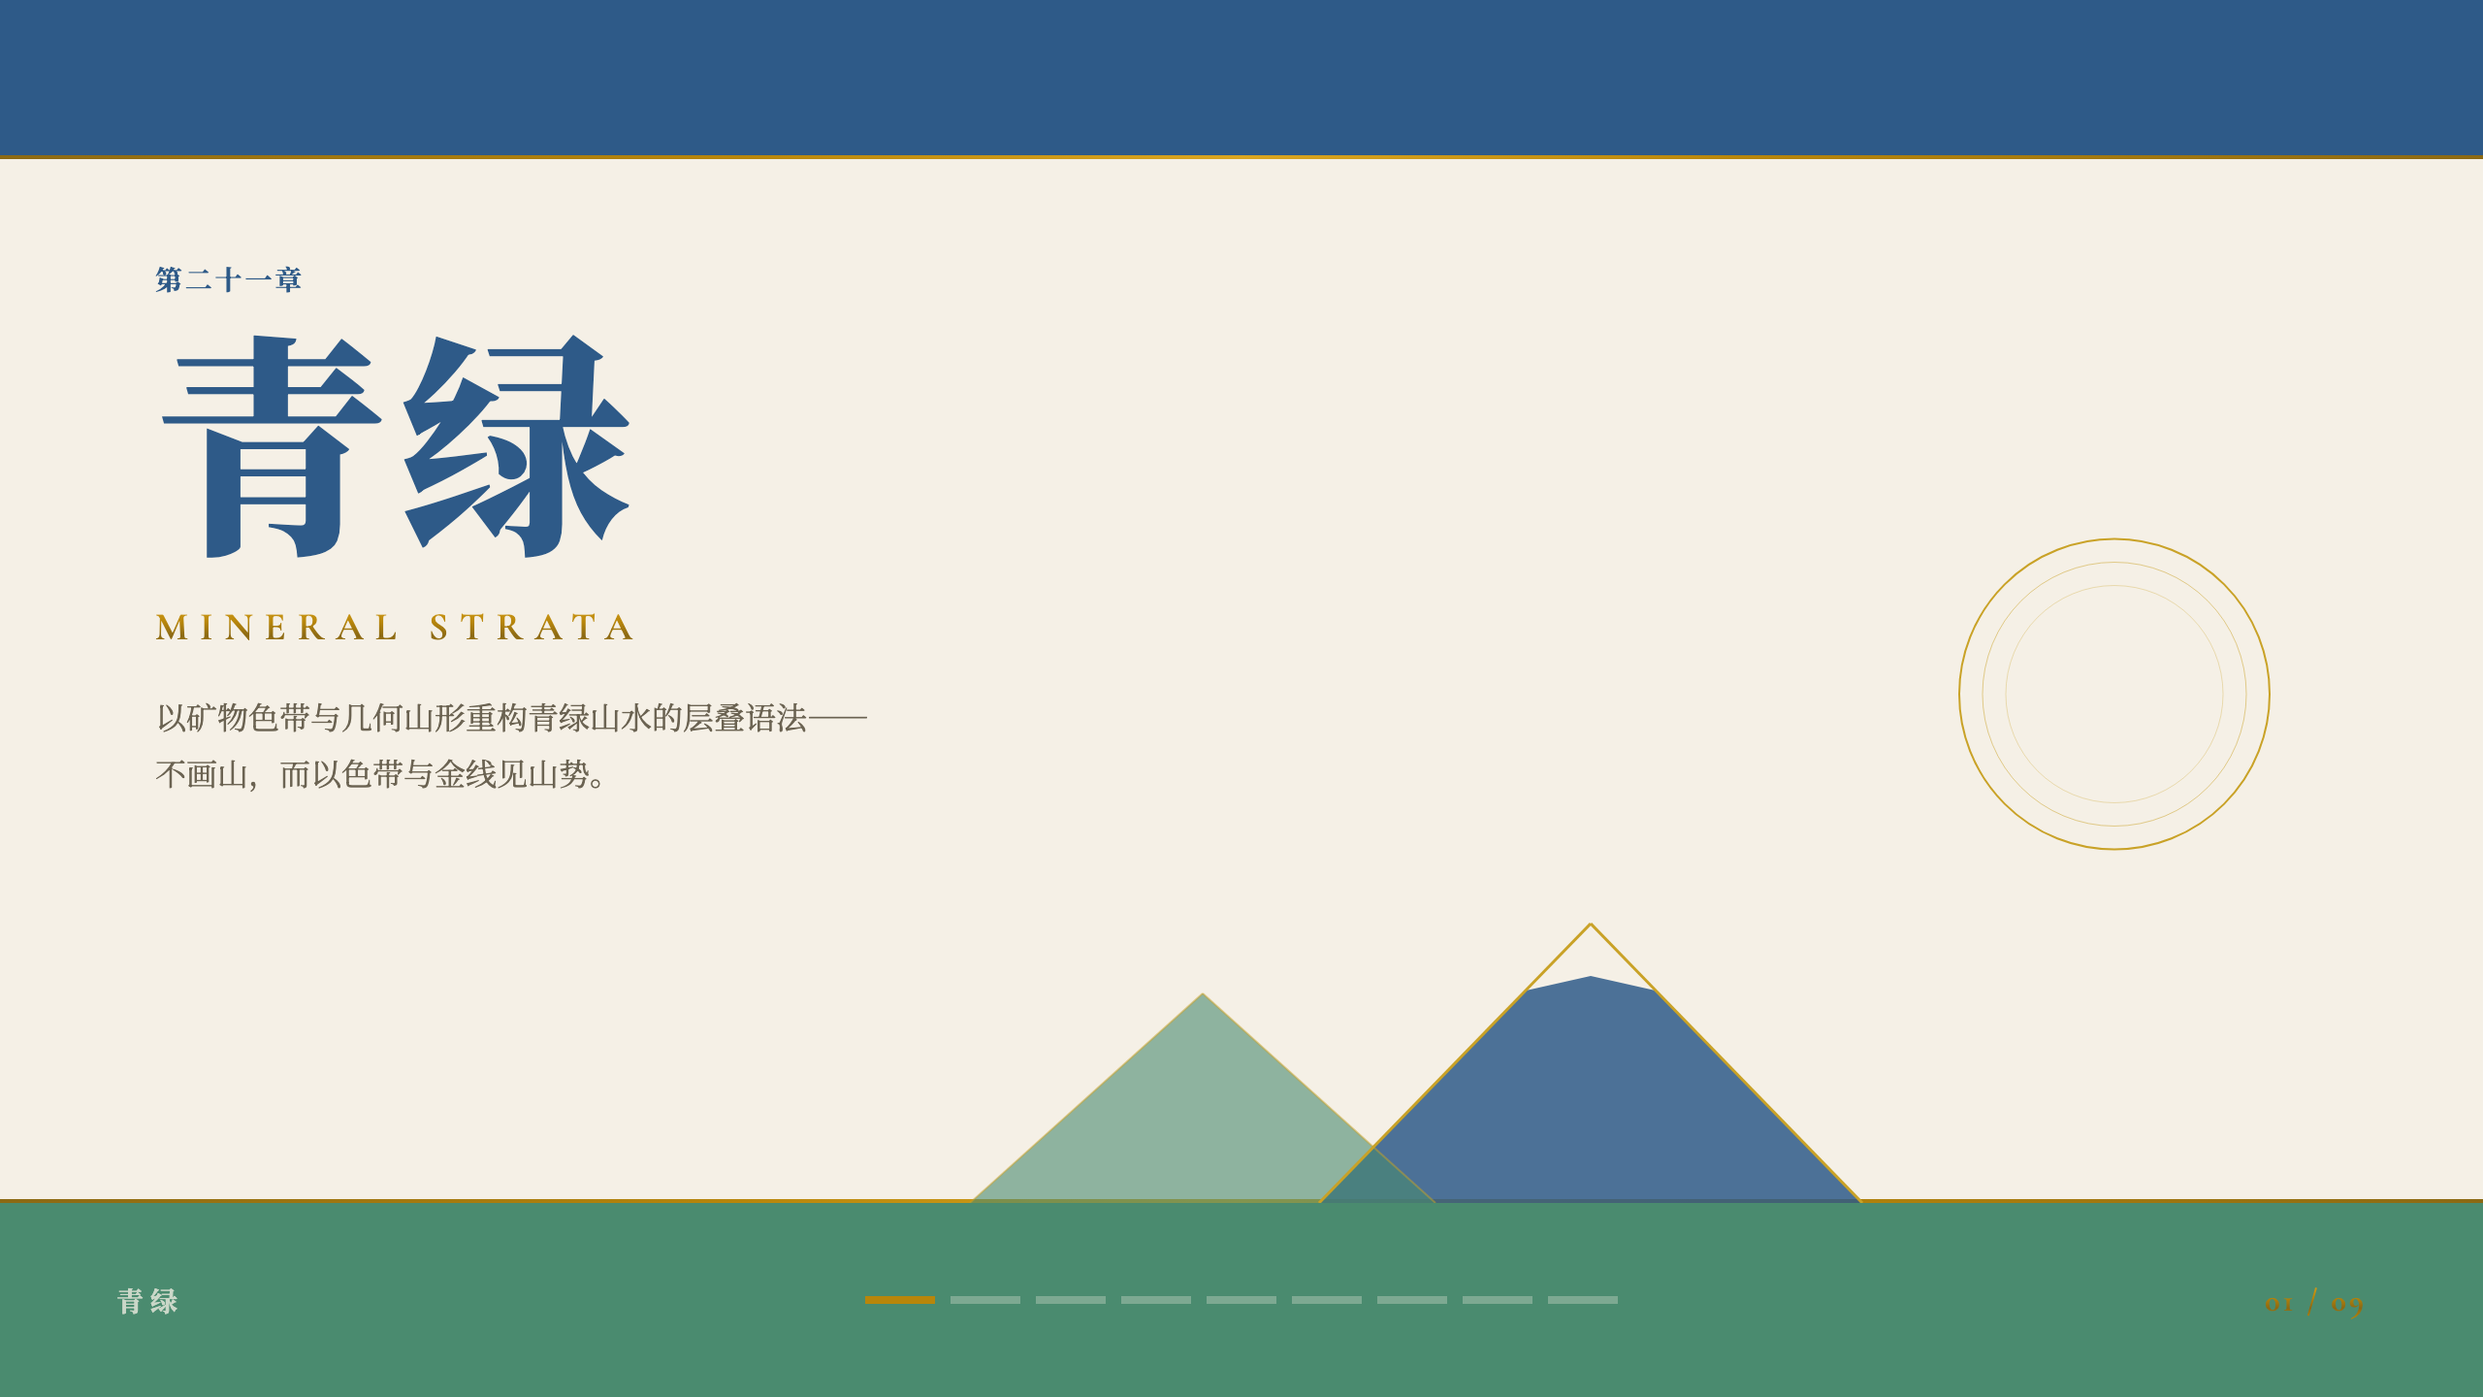
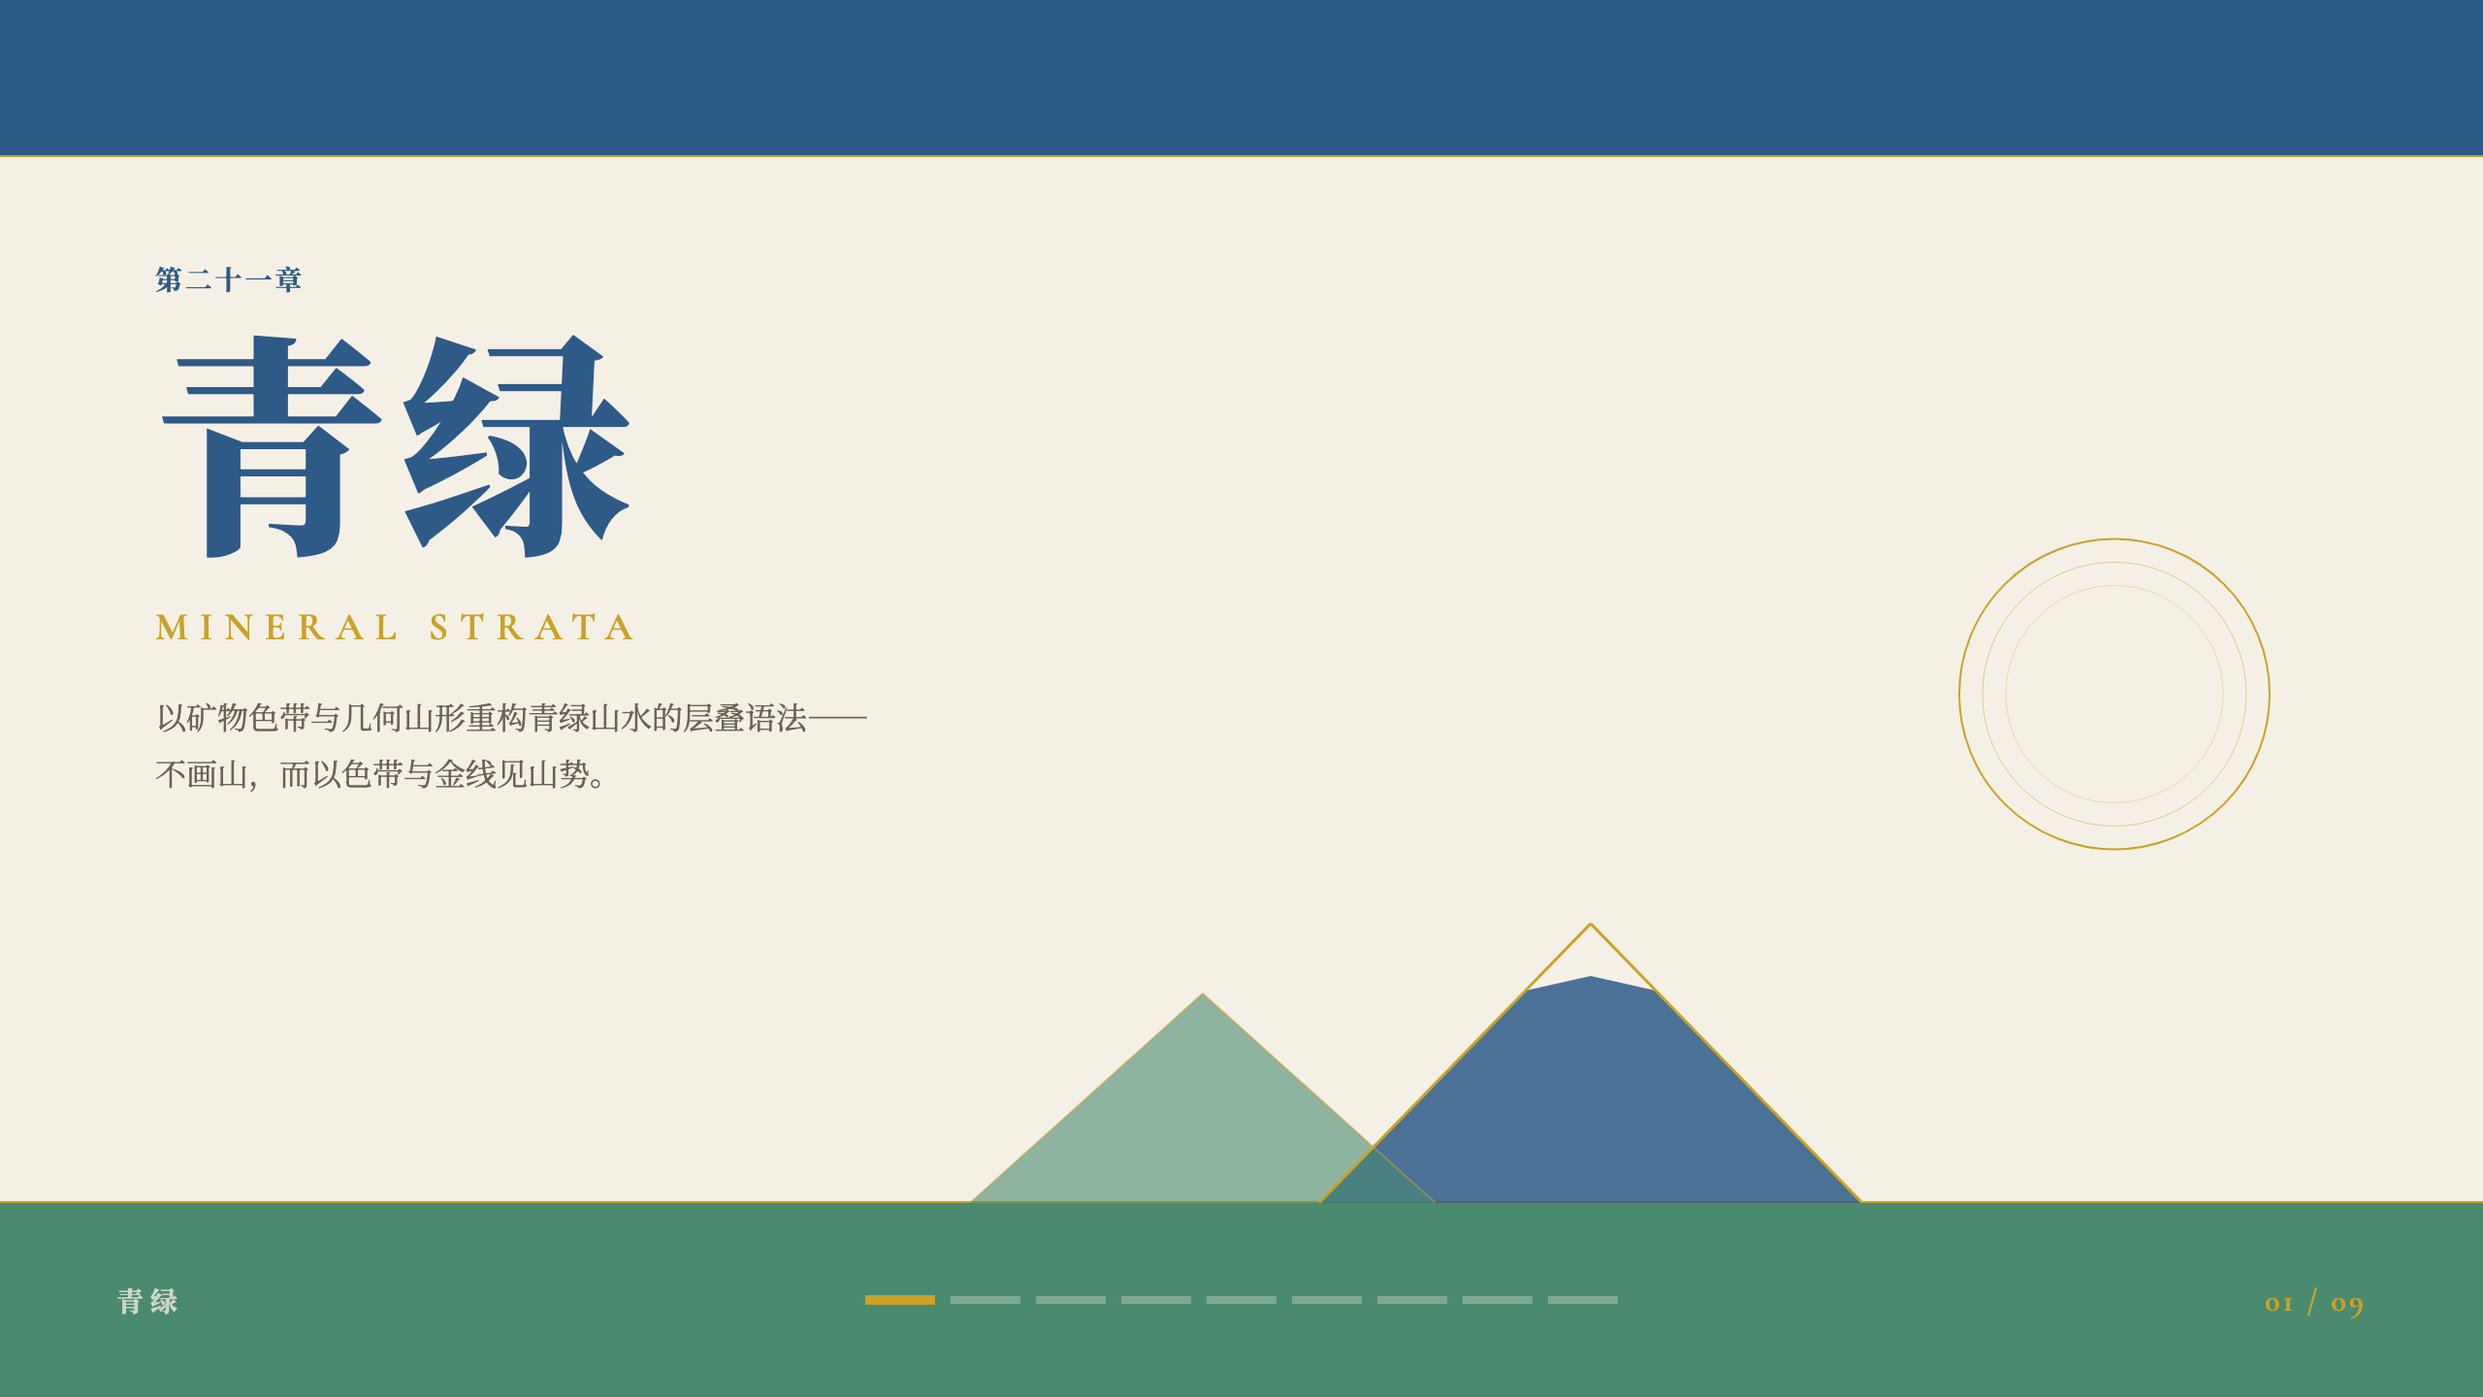
revert: mineral strata gold back to simple solid #C9A227 (remove metallic gradients, glow, Dunhuang red-gold; clean pure-color gold lines and text)

Changed region(s): [[0.3438, 0.9062, 0.375, 0.9375]]

diff --git a/templates/15-mineral-strata/example.html b/templates/15-mineral-strata/example.html
@@ -14,18 +14,13 @@
     --fg: #1A2A3A;
     --azurite: #2E5A88;
     --malachite: #4A8B6F;
-    --gold: #B8860B;
-    --gold-deep: #8B6914;
-    --gold-soft: #DAA520;
-    --gold-light: rgba(184,134,11,0.3);
-    --gold-shimmer: linear-gradient(90deg, #8B6914 0%, #B8860B 30%, #DAA520 50%, #B8860B 70%, #8B6914 100%);
-    --gold-ink: linear-gradient(180deg, #DAA520 0%, #B8860B 40%, #8B6914 70%, #B8860B 100%);
+    --gold: #C9A227;
+    --gold-light: rgba(201,162,39,0.3);
     --muted: #6B6352;
     --font-cn: 'Noto Serif SC', serif;
     --font-en: 'Cormorant Garamond', Georgia, serif;
   }
   * { margin: 0; padding: 0; box-sizing: border-box; }
-  .gold-ink { background: var(--gold-ink); -webkit-background-clip: text; -webkit-text-fill-color: transparent; background-clip: text; }
   html, body { height: 100%; background: #1a1a1a; font-family: var(--font-cn); overflow: hidden; }
   .deck { position: fixed; top: 0; left: 0; width: 100vw; height: 100vh; }
   .slide {
@@ -40,7 +35,7 @@
   .strata { position: absolute; left: 0; right: 0; z-index: 0; }
   .strata-top { top: 0; height: 80px; background: var(--azurite); }
   .strata-bottom { bottom: 0; height: 100px; background: var(--malachite); }
-  .gold-line { position: absolute; left: 0; right: 0; height: 2px; background: var(--gold-shimmer); z-index: 1; }
+  .gold-line { position: absolute; left: 0; right: 0; height: 1px; background: var(--gold); z-index: 1; }
 
   /* Minimal mountain triangles */
   .mountains { position: absolute; bottom: 100px; left: 0; right: 0; z-index: 1; pointer-events: none; }
@@ -59,10 +54,10 @@
   .section-slide .footer { height: 50px; }
   .content-slide .footer, .two-col .footer, .data-slide .footer, .quote-slide .footer { height: 50px; }
 
-  .label { font-family: var(--font-en); font-size: 14px; letter-spacing: 0.35em; text-transform: uppercase; background: var(--gold-ink); -webkit-background-clip: text; -webkit-text-fill-color: transparent; background-clip: text; font-weight: 600; }
+  .label { font-family: var(--font-en); font-size: 14px; letter-spacing: 0.35em; text-transform: uppercase; color: var(--gold); font-weight: 600; }
   .label-cn { font-family: var(--font-cn); font-size: 14px; color: var(--azurite); font-weight: 700; letter-spacing: 0.1em; }
 
-  .gold-rule { width: 60px; height: 2px; background: var(--gold-shimmer); }
+  .gold-rule { width: 60px; height: 1px; background: var(--gold); }
 
   /* Title */
   .title-slide .content-area { justify-content: center; }
@@ -72,7 +67,7 @@
   .title-slide .bottom-band { position: absolute; bottom: 0; left: 0; right: 0; height: 100px; background: var(--malachite); z-index: 0; }
   .title-slide .label { margin-bottom: 20px; }
   .title-slide h1 { font-family: var(--font-cn); font-size: 120px; font-weight: 900; color: var(--azurite); line-height: 1.15; letter-spacing: 0.05em; }
-  .title-slide .en { font-family: var(--font-en); font-size: 20px; letter-spacing: 0.3em; text-transform: uppercase; background: var(--gold-ink); -webkit-background-clip: text; -webkit-text-fill-color: transparent; background-clip: text; margin-top: 16px; font-weight: 600; }
+  .title-slide .en { font-family: var(--font-en); font-size: 20px; letter-spacing: 0.3em; text-transform: uppercase; color: var(--gold); margin-top: 16px; font-weight: 600; }
   .title-slide .subtitle { margin-top: 20px; font-size: 16px; color: var(--muted); line-height: 1.8; max-width: 460px; }
   .title-slide .halo { position: absolute; right: 100px; top: 50%; transform: translateY(-50%); z-index: 1; }
   .title-slide .halo svg { width: 180px; height: 180px; }
@@ -83,7 +78,7 @@
   .section-slide .gold-line-1 { top: 50px; }
   .section-slide .bottom-band { position: absolute; bottom: 0; left: 0; right: 0; height: 50px; background: var(--malachite); z-index: 0; }
   .section-slide .gold-line-2 { bottom: 50px; }
-  .section-slide .num { font-family: var(--font-en); font-size: 14px; letter-spacing: 0.4em; background: var(--gold-ink); -webkit-background-clip: text; -webkit-text-fill-color: transparent; background-clip: text; margin-bottom: 16px; }
+  .section-slide .num { font-family: var(--font-en); font-size: 14px; letter-spacing: 0.4em; color: var(--gold); margin-bottom: 16px; }
   .section-slide h2 { font-family: var(--font-cn); font-size: 80px; font-weight: 900; color: var(--azurite); line-height: 1.15; letter-spacing: 0.05em; }
   .section-slide .gold-rule { margin: 20px auto; }
   .section-slide p { font-size: 16px; color: var(--muted); max-width: 440px; line-height: 1.8; }
@@ -98,8 +93,8 @@
   .content-slide .label-cn { margin-bottom: 8px; }
   .content-slide h2 { font-family: var(--font-cn); font-size: 40px; font-weight: 900; color: var(--azurite); letter-spacing: 0.03em; }
   .content-slide .cards { display: grid; grid-template-columns: repeat(3,1fr); gap: 28px; flex: 1; }
-  .content-slide .card { padding: 28px 24px; border-top: 3px solid var(--gold); background: rgba(255,255,255,0.4); display: flex; flex-direction: column; }
-  .content-slide .card .num-cn { font-family: var(--font-cn); font-size: 14px; background: var(--gold-ink); -webkit-background-clip: text; -webkit-text-fill-color: transparent; background-clip: text; font-weight: 700; margin-bottom: 12px; letter-spacing: 0.1em; }
+  .content-slide .card { padding: 28px 24px; border-top: 2px solid var(--gold); background: rgba(255,255,255,0.4); display: flex; flex-direction: column; }
+  .content-slide .card .num-cn { font-family: var(--font-cn); font-size: 14px; color: var(--gold); font-weight: 700; margin-bottom: 12px; letter-spacing: 0.1em; }
   .content-slide .card h3 { font-family: var(--font-cn); font-size: 22px; font-weight: 700; color: var(--azurite); margin-bottom: 10px; }
   .content-slide .card p { font-size: 14px; line-height: 1.8; color: var(--muted); }
   .content-slide .card .en-term { font-family: var(--font-en); font-size: 14px; color: var(--malachite); letter-spacing: 0.1em; margin-top: auto; padding-top: 12px; font-weight: 600; }
@@ -117,12 +112,12 @@
   .two-col .col.a { background: var(--azurite); color: #fff; }
   .two-col .col.b { background: rgba(255,255,255,0.5); }
   .two-col .col .tag { font-family: var(--font-en); font-size: 12px; letter-spacing: 0.3em; text-transform: uppercase; margin-bottom: 14px; font-weight: 600; }
-  .two-col .col.a .tag { background: var(--gold-ink); -webkit-background-clip: text; -webkit-text-fill-color: transparent; background-clip: text; }
-  .two-col .col.b .tag { background: var(--gold-ink); -webkit-background-clip: text; -webkit-text-fill-color: transparent; background-clip: text; }
+  .two-col .col.a .tag { color: var(--gold); }
+  .two-col .col.b .tag { color: var(--gold); }
   .two-col .col h3 { font-family: var(--font-cn); font-size: 26px; font-weight: 700; margin-bottom: 12px; }
   .two-col .col p { font-size: 14px; line-height: 1.8; opacity: 0.85; }
   .two-col .col .stat { margin-top: auto; padding-top: 16px; font-family: var(--font-cn); font-size: 44px; font-weight: 900; }
-  .two-col .col.a .stat { background: var(--gold-ink); -webkit-background-clip: text; -webkit-text-fill-color: transparent; background-clip: text; }
+  .two-col .col.a .stat { color: var(--gold); }
   .two-col .col.b .stat { color: var(--azurite); }
 
   /* Quote */
@@ -132,7 +127,7 @@
   .quote-slide .gold-line-2 { bottom: 50px; }
   .quote-slide .content-area { padding: 72px 80px 70px; justify-content: center; align-items: center; text-align: center; }
   .quote-slide blockquote { font-family: var(--font-cn); font-size: 44px; font-weight: 700; line-height: 1.6; color: var(--azurite); max-width: 860px; }
-  .quote-slide blockquote .gold-text { background: var(--gold-ink); -webkit-background-clip: text; -webkit-text-fill-color: transparent; background-clip: text; }
+  .quote-slide blockquote .gold-text { color: var(--gold); }
   .quote-slide cite { display: block; margin-top: 28px; font-family: var(--font-en); font-size: 14px; letter-spacing: 0.3em; text-transform: uppercase; color: var(--muted); font-style: normal; }
   .quote-slide .gold-rule { margin: 24px auto 0; }
 
@@ -215,7 +210,7 @@
   }
   .progress-bar .pb-page {
     font-family: var(--font-en); font-size: 16px; font-weight: 700;
-    letter-spacing: 0.1em; background: var(--gold-ink); -webkit-background-clip: text; -webkit-text-fill-color: transparent; background-clip: text;
+    letter-spacing: 0.1em; color: var(--gold);
   }
   .progress-strip {
     position: absolute; top: 50%; left: 50%; transform: translate(-50%, -50%);
@@ -235,7 +230,7 @@
   }
   .progress-strip .seg.current {
     background: var(--gold);
-    height: 4px;
+    height: 5px;
   }
   .progress-strip .seg.seg-gap { margin-left: 4px; }
   .nav-hint { display: none !important; }

diff --git a/templates/15-mineral-strata/DESIGN.md b/templates/15-mineral-strata/DESIGN.md
@@ -9,12 +9,8 @@ color:
   foreground: "#1A2A3A"
   azurite: "#2E5A88"
   malachite: "#4A8B6F"
-  gold: "#DAA520"
-  gold_deep: "#8B6914"
-  gold_soft: "#DAA520"
-  gold_light: "rgba(184,134,11,0.3)"
-  gold_shimmer: "linear-gradient(90deg, #8B6914, #B8860B, #DAA520, #B8860B, #8B6914)"
-  gold_ink: "linear-gradient(180deg, #DAA520, #B8860B, #8B6914, #B8860B)"
+  gold: "#C9A227"
+  gold_light: "rgba(201,162,39,0.3)"
   muted: "#6B6352"
 
 typography:
@@ -48,7 +44,7 @@ shadow:
   none: true
 
 border:
-  width: "2-3px"
+  width: "1-2px"
   style: "solid"
   color: "#DAA520"
 
@@ -75,7 +71,7 @@ progress_bar:
     section_gap: "24px"
     future: "light fill; w=36px, h=4px"
     past: "medium fill"
-    current: "solid var(--gold) #B8860B fill; h=4px (same as other segments, no taller block, no glow)"
+    current: "solid var(--gold) #C9A227 fill; h=5px; no glow"
 
 ---
 
@@ -90,7 +86,7 @@ progress_bar:
 - **背景**：暖绢白 `#F5F0E6`，不是纯白，带绢本质感。
 - **石青** `#2E5A88`：上方色带、主标题、关键文字——最远最高的颜色。
 - **石绿** `#4A8B6F`：下方色带，托住全局——最近最沉的颜色。
-- **泥金（敦煌赤金）** `#B8860B`（深 `#8B6914` / 柔 `#DAA520`）：暗暖带红棕调，像千年氧化的金粉。含蓄的矿物金渐变文字（gold-ink）+ 微妙光泽金线（gold-shimmer），只做线和字，不做面。进度条当前段与其他段等高（4px），不用突出色块，不发光。
+- **泥金** `#C9A227`：干净的纯色金色，只做线和字，不做面。不用金属渐变、不用发光、不用亮金高光。金线 1px，卡片顶边 2px。
 - **禁止**：渐变色、高饱和色、冷灰、大面积金色块。
 
 ## 字体规则
@@ -112,11 +108,11 @@ progress_bar:
 ## 组件模式
 
 - **色带**：绝对定位的 `position: absolute; left:0; right:0;` 矩形，石青或石绿填充，高度 50-100px。
-- **金线**：`height: 2px; background: gold-shimmer (linear-gradient 90deg, #8B6914 → #B8860B → #DAA520 → #B8860B → #8B6914);`，暗暖赤金的微妙光泽渐变，位于色带边缘。
-- **金色文字**：`background: gold-ink (linear-gradient 180deg, #DAA520 → #B8860B → #8B6914 → #B8860B); -webkit-background-clip: text; -webkit-text-fill-color: transparent;`，所有金色文字（标签、编号、英文副标题、页码）均用暗暖赤金渐变，不用纯色，也不用亮金/纯金高光。
+- **金线**：`height: 1px; background: #C9A227;`，纯色金线，位于色带边缘。
+- **金色文字**：`color: #C9A227;`，所有金色文字（标签、编号、英文副标题、页码）均用纯色，不用金属渐变，不用亮金高光。
 - **山形**：SVG `<polygon>`，如 `points="680,200 820,40 960,200"`，石青填充 + 泥金描边。
 - **同心圆**：SVG `<circle>` 多层，`fill: none; stroke: #DAA520`，1-2px 线宽。
-- **卡片**：半透明白底 `rgba(255,255,255,0.4)` + 3px 泥金 `border-top`，无圆角。
+- **卡片**：半透明白底 `rgba(255,255,255,0.4)` + 2px 泥金 `border-top`，无圆角。
 - **双栏**：一栏石青底白字，一栏半透明白底深字。
 
 ## Do / Don't
@@ -141,4 +137,4 @@ progress_bar:
 
 ## 给 Coding Agent 的提示
 
-> 请读取本 DESIGN.md。背景为暖绢白 #F5F0E6。页面由石青 #2E5A88（上）和石绿 #4A8B6F（下）水平色带分割，泥金（敦煌赤金）#B8860B 2px 微妙光泽渐变线（gold-shimmer，深金#8B6914→赤金#B8860B→柔金#DAA520，暗暖带红棕调，不用亮金/纯金）分隔。底部放 2-3 个极简 SVG 三角形山形（石青/石绿填充+泥金描边）。中文标题 Noto Serif SC 900 大字距，英文 Cormorant Garamond 大写暗暖赤金渐变文字（gold-ink，不用纯色也不用亮金高光）。所有金色文字（标签、编号、页码）均用 gold-ink 赤金渐变。进度条当前段与其他段等高（4px），不用突出色块。卡片半透明白底+3px 泥金顶部边框，零圆角。禁止画真实山水、渐变（除金色赤金渐变外）、圆角、阴影、亮金属效果、进度条色块。
+> 请读取本 DESIGN.md。背景为暖绢白 #F5F0E6。页面由石青 #2E5A88（上）和石绿 #4A8B6F（下）水平色带分割，泥金 #C9A227 1px 纯色线（不用金属渐变、不用发光）分隔。底部放 2-3 个极简 SVG 三角形山形（石青/石绿填充+泥金描边）。中文标题 Noto Serif SC 900 大字距，英文 Cormorant Garamond 大写纯色金色 #C9A227（不用金属渐变、不用亮金高光）。所有金色文字均用纯色。卡片半透明白底+2px 泥金顶部边框，零圆角。禁止画真实山水、渐变、圆角、阴影、金属渐变、发光效果。
